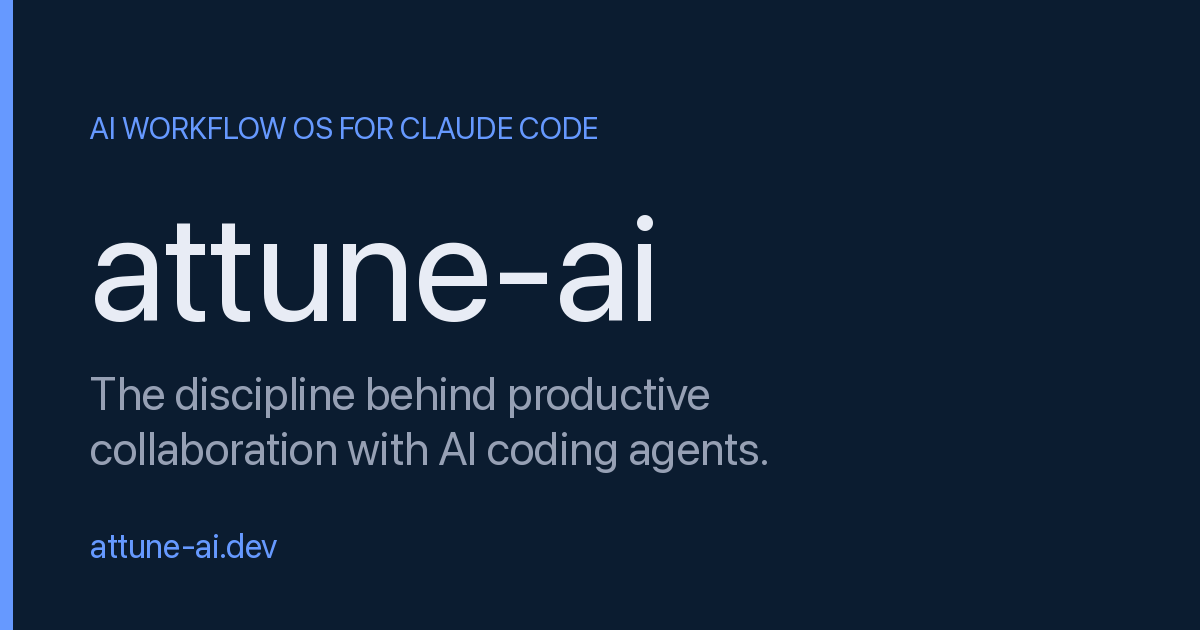
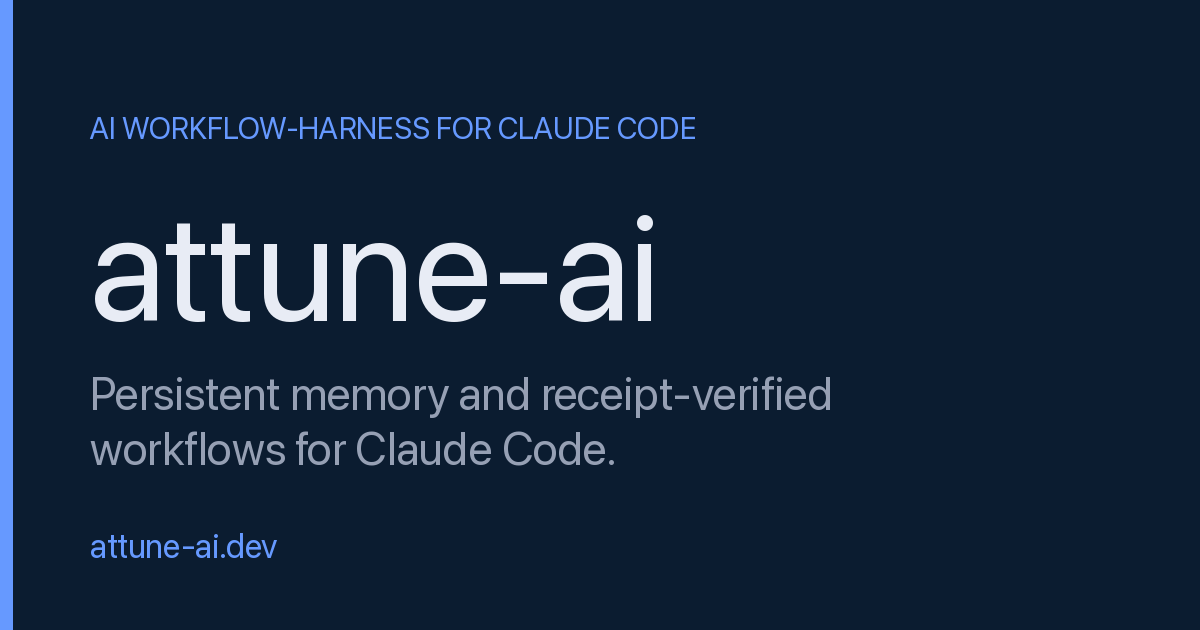
docs(sites): landing-page audit fixes — tagline, stale v8.5.0, og image, SEO keywords
Traffic-review section 06 applied to both web surfaces:

attune-ai.dev (static): title/meta/og carry the canonical tagline;
hardcoded v8.5.0 eyebrow (stale since 3.5 majors — hand-maintained,
no build injection) replaced with a version-free surface line;
og.png regenerated with the new tagline.

smartaimemory.com (website/): default metadata title/description and
footer use the canonical tagline; hero eyebrow aligned; search-term
keywords added (Claude Code memory, agent memory, MCP server).

Changed region(s): [[0.0617, 0.6032, 0.7092, 0.754], [0.2467, 0.181, 0.5858, 0.2413]]

diff --git a/attune-ai-dev/index.html b/attune-ai-dev/index.html
@@ -3,12 +3,12 @@
 <head>
   <meta charset="utf-8" />
   <meta name="viewport" content="width=device-width,initial-scale=1" />
-  <title>attune-ai — the discipline behind productive agent collaboration</title>
-  <meta name="description" content="A toolchain for the work that lives between sessions, across files, and across packages — specs, releases, memory, dashboards, verification." />
+  <title>attune-ai — persistent memory and receipt-verified workflows for Claude Code</title>
+  <meta name="description" content="Persistent memory and receipt-verified workflows for Claude Code — plugin, MCP server, and spec-driven dev framework. Cross-session memory, acceptance probes re-run independently, RAG grounding." />
 
   <!-- Social sharing -->
   <meta property="og:title" content="attune-ai" />
-  <meta property="og:description" content="The discipline behind productive collaboration with AI coding agents." />
+  <meta property="og:description" content="Persistent memory and receipt-verified workflows for Claude Code." />
   <meta property="og:url" content="https://attune-ai.dev" />
   <meta property="og:type" content="website" />
   <meta property="og:image" content="https://attune-ai.dev/og.png" />
@@ -181,15 +181,18 @@
 <body>
   <main>
     <span class="eyebrow">
-      <span>v8.5.0</span>
+      <span>Claude Code plugin</span>
       <span class="dot"></span>
-      <span>Spec-driven development platform</span>
+      <span>MCP server</span>
+      <span class="dot"></span>
+      <span>Python framework</span>
     </span>
 
     <h1>attune-ai</h1>
     <p class="tagline">
-      Turn requirements into reliable software — with AI workflows, project
-      memory, retrieval grounding, and verification, built for Claude Code.
+      Persistent memory and receipt-verified workflows for Claude Code.
+      Your agent stops starting from zero — and its word stops being
+      the evidence.
     </p>
 
     <div class="install" aria-label="Install command">

diff --git a/website/lib/metadata.ts b/website/lib/metadata.ts
@@ -15,9 +15,9 @@ export interface SEOConfig {
 
 const defaultMetadata = {
   siteName: 'Attune AI',
-  title: 'Turn requirements into reliable software — Attune AI',
+  title: 'Persistent memory and receipt-verified workflows for Claude Code — Attune AI',
   description:
-    'Spec-driven development platform for Claude Code: AI workflows, project memory, retrieval grounding, and verification. Turn requirements into reliable software — open source.',
+    'Persistent memory and receipt-verified workflows for Claude Code: cross-session memory, acceptance probes re-run independently, RAG grounding, and spec-driven development — open source.',
   url: 'https://smartaimemory.com',
   image: '/og-image.png',
   twitterHandle: '@smartaimemory',
@@ -30,6 +30,11 @@ const defaultMetadata = {
     'attune-help',
     'attune-ai',
     'Claude Code plugin',
+    'Claude Code memory',
+    'persistent memory for Claude Code',
+    'agent memory',
+    'spec driven development Claude Code',
+    'MCP server',
     'Claude Code /coach',
     'self-maintaining docs',
     'knowledge base from code',

diff --git a/website/app/page.tsx b/website/app/page.tsx
@@ -56,7 +56,7 @@ export default function Home() {
                 <div className="inline-flex items-center gap-2 px-3 py-1 rounded-full bg-[var(--surface-container-high)] text-[var(--primary)] text-xs font-bold tracking-widest mb-6 uppercase">
                   <span>v12.0.0</span>
                   <span className="w-1 h-1 rounded-full bg-[var(--primary)]"></span>
-                  <span className="opacity-80">Spec-driven development platform</span>
+                  <span className="opacity-80">Memory &amp; receipts for Claude Code</span>
                 </div>
                 <h1 className="text-5xl md:text-7xl font-extrabold tracking-tighter mb-8 leading-[1.1]">
                   Build software from{' '}

diff --git a/website/components/Footer.tsx b/website/components/Footer.tsx
@@ -19,7 +19,7 @@ export default function Footer() {
               Attune AI
             </Link>
             <p className="mt-4 text-sm text-[var(--text-secondary)]">
-              Spec-driven development for Claude Code. Turn requirements into reliable software.
+              Persistent memory and receipt-verified workflows for Claude Code.
             </p>
             <div className="flex gap-4 mt-4">
               <a

diff --git a/attune-ai-dev/build_og.py b/attune-ai-dev/build_og.py
@@ -68,8 +68,8 @@ def main() -> int:
 
     # tagline (two lines, hand-wrapped)
     tag = _font(46, _FONT_CANDIDATES_REG)
-    d.text((pad, 365), "The discipline behind productive", font=tag, fill=MUTED)
-    d.text((pad, 420), "collaboration with AI coding agents.", font=tag, fill=MUTED)
+    d.text((pad, 365), "Persistent memory and receipt-verified", font=tag, fill=MUTED)
+    d.text((pad, 420), "workflows for Claude Code.", font=tag, fill=MUTED)
 
     # footer url
     foot = _font(34, _FONT_CANDIDATES)
